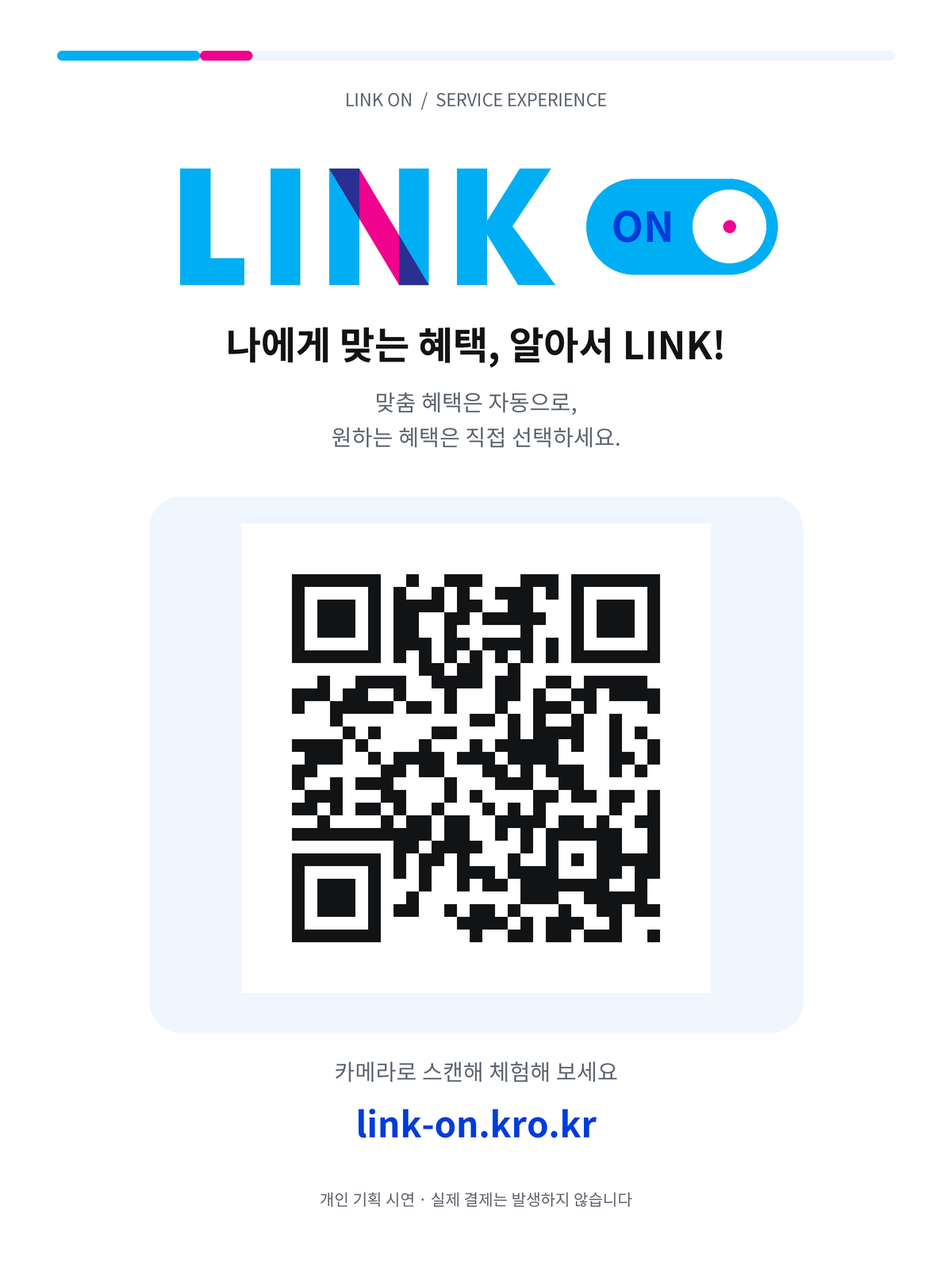
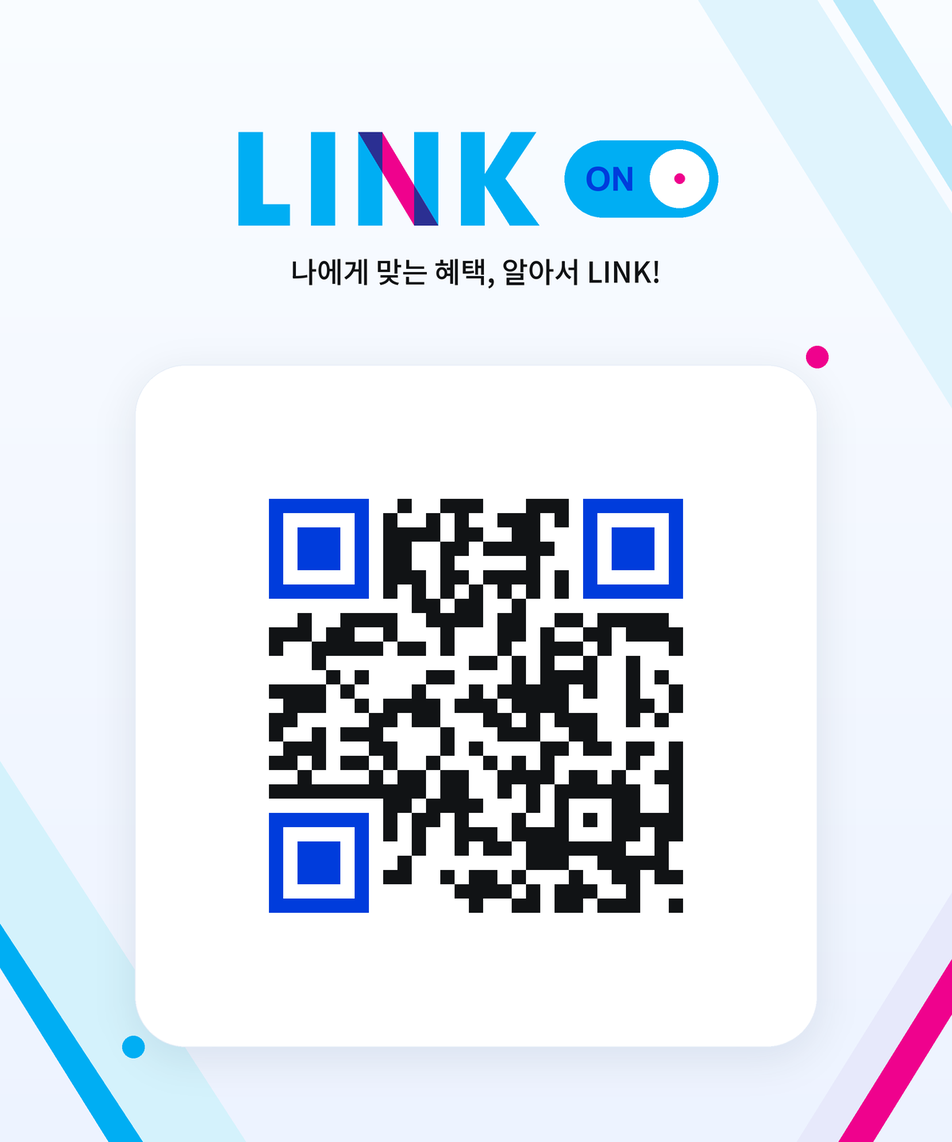
Refine LINK ON brand footer, demo settings and QR artwork

diff --git a/src/DemoTools.tsx b/src/DemoTools.tsx
@@ -1,7 +1,9 @@
 import { useState, useEffect, type Dispatch } from 'react';
 import { industries, campaigns, merchants, campaign, availableCampaigns, reducer, type Action, type Availability, type LinkState } from './model';
 
+type SettingSection = 'matching' | 'date' | 'exceptions';
 export function DemoTools({ state, dispatch, navigate, blocked = false }: { state: LinkState; dispatch: Dispatch<Action>; navigate: (route: string) => void; blocked?: boolean }) {
+  const [section, setSection] = useState<SettingSection>('matching');
   const [date, setDate] = useState(state.date);
   const [limit, setLimit] = useState(String(state.limit));
   const [pattern, setPattern] = useState(state.patterns.join(','));
@@ -14,26 +16,44 @@ export function DemoTools({ state, dispatch, navigate, blocked = false }: { stat
   const execute = (action: Action, message: string) => {
     const next = reducer(state, action); dispatch(action); setFeedback(next.notice || message); return next;
   };
-  return <details className="demo-tools" inert={blocked}><summary>체험 설정</summary>
-    <p>가상 이용 패턴과 행사 조건을 바꿔 보세요. 결제 체험과 결과 확인은 폰 화면에서도 할 수 있어요. 실제 결제는 발생하지 않습니다.</p>
-    <div className="demo-grid">
-      <section><h3>맞춤 혜택 선정</h3>
-        <label>시연 이용 패턴<select value={pattern} onChange={e => setPattern(e.target.value)}><option value="">이용 이력 없음</option>{industries.map(industry => <option key={industry} value={industry}>{industry}</option>)}<option value={industries.join(',')}>전체 업종</option>{state.patterns.length > 1 && state.patterns.length < industries.length && <option value={state.patterns.join(',')}>{state.patterns.join(' / ')}</option>}</select></label>
-        <label>시연 한도 (확정 운영 수치 아님)<input type="number" min="0" max="20" step="1" value={limit} onInput={e => setLimit(e.currentTarget.value)} onChange={e => setLimit(e.target.value)} /></label>
-        <button onClick={() => { if (limit === '' || !Number.isInteger(Number(limit)) || Number(limit) < 0 || Number(limit) > 20) { setFeedback('시연 한도는 0~20의 정수로 입력해 주세요.'); return; } execute({ type: 'CONFIGURE', limit: Number(limit), patterns: pattern ? pattern.split(',') : [] }, '시연 조건을 저장했어요.'); }}>시연 조건 저장</button>
-        <button disabled={!state.enabled} onClick={() => execute({ type: 'SELECT' }, '현재 조건으로 선정했어요. 기존 연결은 유지하고 가능한 혜택만 추가해요.')}>새 혜택 선정 실행</button>
-        <label>시연 날짜<input type="date" min={state.date} value={date} onInput={e => setDate(e.currentTarget.value)} onChange={e => setDate(e.target.value)} /></label>
-        <button onClick={() => execute({ type: 'ADVANCE_DATE', date }, '날짜를 변경했어요. 만료 처리 후 LINK ON이 켜져 있으면 새 혜택을 선정해요.')}>날짜 적용</button>
-        <small>현재 {state.date} · 11월/12월 행사를 제공합니다. 이전 날짜로 가려면 처음부터 다시 보기를 사용하세요. 한도 축소 시 기존 연결을 취소하지 않고 신규 연결을 제한합니다.</small>
+  const sections: [SettingSection, string][] = [['matching', '맞춤 혜택 조건'], ['date', '행사 시점'], ['exceptions', '예외 상황']];
+  return <details className="demo-tools" inert={blocked}>
+    <summary><span>시연 설정</span><svg width="18" height="18" viewBox="0 0 18 18" aria-hidden="true"><path d="m4.5 7 4.5 4.5L13.5 7" fill="none" stroke="currentColor" strokeWidth="1.6" strokeLinecap="round" strokeLinejoin="round" /></svg></summary>
+    <div className="settings-content">
+      <p className="settings-intro">조건을 바꾸며 LINK ON의 동작을 살펴보세요.</p>
+      <div className="settings-tabs" role="tablist" aria-label="시연 설정 항목">{sections.map(([key, label], index) => <button key={key} id={`setting-tab-${key}`} role="tab" aria-selected={section === key} aria-controls={`setting-panel-${key}`} tabIndex={section === key ? 0 : -1} onClick={() => { setSection(key); setFeedback(''); }} onKeyDown={event => {
+        const next = event.key === 'ArrowRight' ? (index + 1) % sections.length : event.key === 'ArrowLeft' ? (index + sections.length - 1) % sections.length : event.key === 'Home' ? 0 : event.key === 'End' ? sections.length - 1 : -1;
+        if (next < 0) return;
+        event.preventDefault(); setSection(sections[next][0]); setFeedback(''); document.getElementById(`setting-tab-${sections[next][0]}`)?.focus();
+      }}>{label}</button>)}</div>
+      <section className="settings-panel" id="setting-panel-matching" role="tabpanel" aria-labelledby="setting-tab-matching" hidden={section !== 'matching'}>
+        <div className="settings-fields">
+          <label>이용 패턴<select value={pattern} onChange={e => setPattern(e.target.value)}><option value="">이용 이력 없음</option>{industries.map(industry => <option key={industry} value={industry}>{industry}</option>)}<option value={industries.join(',')}>전체 업종</option>{state.patterns.length > 1 && state.patterns.length < industries.length && <option value={state.patterns.join(',')}>{state.patterns.join(' / ')}</option>}</select></label>
+          <label>자동 연결 한도<input type="number" min="0" max="20" step="1" aria-describedby="limit-help" value={limit} onChange={e => setLimit(e.target.value)} /></label>
+        </div>
+        <p id="limit-help" className="settings-help">체험용 한도예요. 한도를 줄여도 이미 연결된 혜택은 유지돼요.</p>
+        <div className="settings-actions"><button className="settings-primary" onClick={() => { if (limit === '' || !Number.isInteger(Number(limit)) || Number(limit) < 0 || Number(limit) > 20) { setFeedback('자동 연결 한도는 0~20의 정수로 입력해 주세요.'); return; } execute({ type: 'CONFIGURE', limit: Number(limit), patterns: pattern ? pattern.split(',') : [] }, '조건을 저장했어요. 다음 혜택 선정부터 반영돼요.'); }}>조건 저장하기</button>
+          <button className="settings-secondary" disabled={!state.enabled} onClick={() => execute({ type: 'SELECT' }, '현재 조건으로 혜택을 선정했어요. 기존 연결은 유지돼요.')}>새 혜택 선정하기</button></div>
+        {!state.enabled && <p className="settings-help">LINK ON을 켜면 새 혜택을 선정할 수 있어요.</p>}
       </section>
-      <section><h3>시연 결제</h3>
-        <label>결제 대상 행사<select value={id} onChange={e => { setId(e.target.value); setAmount(String((campaign(e.target.value)?.minimum || 5000) + 1500)); }}>{campaigns.map(c => <option key={c.id} value={c.id}>{merchants[c.merchant].name} · {c.start.slice(5, 7)}월</option>)}</select></label>
-        <label>결제금액 (원)<input type="number" min="1" max="100000000" step="1" value={amount} onInput={e => setAmount(e.currentTarget.value)} onChange={e => setAmount(e.target.value)} /></label>
-        <label className="demo-check"><input type="checkbox" checked={other} onChange={e => setOther(e.target.checked)} />다른 할인 적용 (시연 중복 조건)</label>
-        <button onClick={() => { const next = execute({ type: 'PAY', id, amount: Number(amount), otherDiscount: other }, '결제를 접수했어요. 전표 접수 후 적용 여부를 확인해 보세요.'); if (next.payments.length > state.payments.length) navigate('/results/pending'); }}>시연 결제 접수</button>
-        <button disabled={!state.payments.some(p => p.status === 'pending')} onClick={() => { const pending = state.payments.filter(p => p.status === 'pending'); pending.forEach(p => dispatch({ type: 'SETTLE', paymentId: p.id })); setFeedback('결제 당시 조건으로 전표 처리를 완료했어요.'); navigate(pending.at(-1)?.eligibleDiscount ? '/results/done' : '/results/failed'); }}>결제 확인 일괄 완료</button>
-        <label>선택한 행사 연결 상태<select aria-label="행사 예외 상황" value={state.availability[id] || 'available'} onChange={e => execute({ type: 'AVAILABILITY', id, value: e.target.value as Availability }, '예외 조건을 설정했어요. 이미 연결된 혜택에는 소급 적용하지 않아요.')}><option value="available">연결 가능</option><option value="soldout">예산 소진</option><option value="error">연결 오류</option></select></label>
+      <section className="settings-panel" id="setting-panel-date" role="tabpanel" aria-labelledby="setting-tab-date" hidden={section !== 'date'}>
+        <p className="settings-help">다음 달로 이동해 혜택 만료와 새 행사 연결을 확인하세요.</p>
+        <label>시연 날짜<input type="date" min={state.date} value={date} onChange={e => setDate(e.target.value)} /></label>
+        <div className="settings-actions"><button className="settings-primary" onClick={() => execute({ type: 'ADVANCE_DATE', date }, '날짜를 변경했어요. LINK ON이 켜져 있으면 새 혜택도 선정해요.')}>날짜 적용하기</button></div>
+        <p className="settings-help">현재 {state.date} · 11월과 12월 행사를 체험할 수 있어요.<br />이전 날짜로 돌아가려면 ‘다시 체험하기’를 눌러 주세요.</p>
       </section>
-    </div><p role="status" aria-live="polite">{feedback}</p>
+      <section className="settings-panel" id="setting-panel-exceptions" role="tabpanel" aria-labelledby="setting-tab-exceptions" hidden={section !== 'exceptions'}>
+        <label>대상 행사<select value={id} onChange={e => { setId(e.target.value); setAmount(String((campaign(e.target.value)?.minimum || 5000) + 1500)); setFeedback(''); }}>{campaigns.map(c => <option key={c.id} value={c.id}>{merchants[c.merchant].name} · {c.start.slice(5, 7)}월</option>)}</select></label>
+        <label>연결 상황<select value={state.availability[id] || 'available'} onChange={e => execute({ type: 'AVAILABILITY', id, value: e.target.value as Availability }, '연결 상황을 변경했어요. 이미 연결된 혜택은 유지돼요.')}><option value="available">연결 가능</option><option value="soldout">예산 소진</option><option value="error">연결 오류</option></select></label>
+        <p className="settings-help">선택한 행사의 새 연결에 바로 적용돼요.</p>
+        <div className="exception-payment"><h3>할인 조건 확인</h3><p className="settings-help">결제금액이나 중복 할인 여부에 따른 결과를 비교하세요.</p>
+          <label>결제금액 (원)<input type="number" min="1" max="100000000" step="1" value={amount} onChange={e => setAmount(e.target.value)} /></label>
+          <label className="settings-check"><input type="checkbox" checked={other} onChange={e => setOther(e.target.checked)} />다른 할인 함께 적용</label>
+          <div className="settings-actions"><button className="settings-primary" onClick={() => { const next = execute({ type: 'PAY', id, amount: Number(amount), otherDiscount: other }, '결제 체험을 접수했어요. 이용 결과에서 할인 여부를 확인하세요.'); if (next.payments.length > state.payments.length) navigate('/results/pending'); }}>이 조건으로 결제 체험</button>
+            <button className="settings-secondary" disabled={!state.payments.some(p => p.status === 'pending')} onClick={() => { const pending = state.payments.filter(p => p.status === 'pending'); pending.forEach(p => dispatch({ type: 'SETTLE', paymentId: p.id })); setFeedback('확인 중인 결제의 할인 결과를 반영했어요.'); navigate(pending.at(-1)?.eligibleDiscount ? '/results/done' : '/results/failed'); }}>확인 중인 결과 모두 반영</button></div>
+        </div>
+      </section>
+      {feedback && <p className="settings-feedback" role="status" aria-live="polite">{feedback}</p>}
+    </div>
   </details>;
 }

diff --git a/src/main.tsx b/src/main.tsx
@@ -206,17 +206,17 @@ function App() {
   } else if (path === '/experience' || path.startsWith('/experience/')) {
     title = '결제 체험'; contentClass = 'experience';
     content = <PaymentExperience key={path + state.date} state={state} dispatch={dispatch} requestedId={path.split('/')[2]} onSubmitted={() => go('/results/pending', true)} />;
-    footer = <><button className="button primary" type="submit" form="payment-experience" disabled={!availableCampaigns(state).length}>시연 결제하기</button><p className="footer-note">실제 결제나 청구는 발생하지 않아요.</p></>;
+    footer = <><button className="button primary" type="submit" form="payment-experience" disabled={!availableCampaigns(state).length}>결제 체험하기</button><p className="footer-note">실제 결제나 청구는 발생하지 않아요.</p></>;
   } else if (path.startsWith('/results')) {
     title = '이용 결과';
     const requested = path.split('/')[2]; const tab = ['done', 'pending', 'failed'].includes(requested) ? requested : 'done';
     const list = state.payments.filter(p => p.status === tab).slice().reverse();
-    content = <><h2>내가 받은 LINK 혜택</h2><div className="result-tabs" role="tablist" aria-label="혜택 적용 상태">{[['done', '적용 완료'], ['pending', '확인 중'], ['failed', '미적용']].map(([value, text]) => <button key={value} role="tab" aria-selected={tab === value} className={tab === value ? 'selected' : ''} onClick={() => go(`/results/${value}`, true)}>{text}</button>)}</div>
+    content = <><h2>LINK 이용 결과</h2><div className="result-tabs" role="tablist" aria-label="혜택 적용 상태">{[['done', '적용 완료'], ['pending', '확인 중'], ['failed', '미적용']].map(([value, text]) => <button key={value} role="tab" aria-selected={tab === value} className={tab === value ? 'selected' : ''} onClick={() => go(`/results/${value}`, true)}>{text}</button>)}</div>
       {!state.payments.length ? <><div className="status-circle"><Icon name="gift-large.svg" size={52} /></div><h2>아직 이용 내역이 없어요</h2><p className="muted">혜택을 연결한 뒤 조건에 맞게 결제하면<br />이곳에서 적용 결과를 확인할 수 있어요.</p>{canTryPayment && <Button secondary onClick={() => experience()}>결제 체험하기</Button>}</> : !list.length ? <Note>{tab === 'pending' ? '확인 중인 결제가 없어요.' : tab === 'failed' ? '미적용된 결제가 없어요.' : '아직 적용 완료된 혜택이 없어요.'} 다른 상태의 내역도 확인해 보세요.</Note> : list.map(p => {
         const c = campaign(p.campaignId)!; const pending = p.status === 'pending'; const failed = p.status === 'failed';
-        return <section className="payment-entry" key={p.id}><div className="card result-card"><div className="result-icons"><Merchant id={c.merchant} /><Icon name={pending ? 'clock.svg' : failed ? 'info.svg' : 'check-result.svg'} size={40} /></div><h3>{pending ? '결제 내역을 확인 중이에요' : failed ? '이번 결제는 적용되지 않았어요' : `${money(p.discount)} 혜택 적용`}</h3><p className="muted">{pending ? '결제 확인을 완료하면 할인 적용 결과를 볼 수 있어요.' : failed ? p.reason : `${p.mode === 'auto' ? '자동' : '직접'} LINK로 챙긴 혜택이에요.`}</p></div><Details rows={[
+        return <section className="payment-entry" key={p.id}><div className="card result-card"><div className="result-icons"><Merchant id={c.merchant} /><Icon name={pending ? 'clock.svg' : failed ? 'info.svg' : 'check-result.svg'} size={40} /></div><h3>{pending ? '결제 내역을 확인 중이에요' : failed ? '이번 결제는 적용되지 않았어요' : `${money(p.discount)} 할인 적용`}</h3><p className="muted">{pending ? '아래 버튼을 누르면 결제 확인 과정을 체험하고 할인 결과를 볼 수 있어요.' : failed ? p.reason : `${p.mode === 'auto' ? '자동' : '직접'} LINK로 챙긴 혜택이에요.`}</p></div><Details rows={[
           ['이용 가맹점', merchants[c.merchant].name], ['결제금액', money(p.amount)], ['이용일', p.date.replaceAll('-', '.')], ['연결 방식', p.mode ? p.mode === 'auto' ? '자동 LINK' : '직접 LINK' : '연결 없음'],
-        ] } />{pending && <Button onClick={() => { dispatch({ type: 'SETTLE', paymentId: p.id }); go(p.eligibleDiscount ? '/results/done' : '/results/failed', true); }}>결제 확인 완료하기</Button>}<button className="text-action left" onClick={() => openDetail(c.id)}>행사 혜택 상세 ›</button></section>;
+        ] } />{pending && <Button onClick={() => { dispatch({ type: 'SETTLE', paymentId: p.id }); go(p.eligibleDiscount ? '/results/done' : '/results/failed', true); }}>할인 결과 확인하기</Button>}<button className="text-action left" onClick={() => openDetail(c.id)}>행사 혜택 상세 ›</button></section>;
       })}<Note>시연 결제 내역입니다. 실제 결제는 발생하지 않아요.</Note></>;
     footer = <Button secondary onClick={home}>LINK 메인으로</Button>;
   } else {
@@ -231,7 +231,7 @@ function App() {
       else if (modal === 'off') { dispatch({ type: 'DISABLE' }); home(); }
       else if (modalOffer) { dispatch({ type: 'EXCLUDE', id: modalOffer.id }); go(`/excluded/${modalOffer.id}`, true); }
     }}>{modal === 'unlink' ? <>{modalName} 혜택의 연결이 해제돼요.<br />다른 혜택과 LINK ON 설정은 유지돼요.</> : modal === 'off' ? <>새 혜택의 자동 연결이 중단돼요.<br />이미 연결된 혜택은 만료일까지 유지됩니다.</> : <>{modalName} 혜택의 연결이 취소돼요.<br />이번 행사 혜택은 다시 자동 연결하지 않아요.</>}</ConfirmSheet>}
-  </div></div><p className="demo-disclosure">개인 기획 시연 · 삼성카드·모니모의 공식 서비스가 아닙니다.</p><div className="preview-tools" inert={!!modal}><span>LINK ON 서비스 체험 · {state.date}</span><button className="preview-size" aria-pressed={originalSize} onClick={() => setOriginalSize(value => !value)}>{originalSize ? '화면에 맞추기' : '원본 크기로 보기'}</button><button onClick={() => { dispatch({ type: 'RESET' }); setDemoReset(value => value + 1); setConsent(false); setDraft(initialState.interests); setIndustryFilter('전체'); home(); requestAnimationFrame(() => { scrollRef.current?.scrollTo(0, 0); window.scrollTo(0, 0); }); }}>처음부터 다시 보기</button></div><DemoTools key={demoReset} blocked={!!modal} state={state} dispatch={dispatch} navigate={route => go(route)} /></div>;
+  </div></div><section className="brand-signature" aria-label="LINK ON 소개"><LinkLogo size={190} /><p>나에게 맞는 혜택, 알아서 LINK!</p></section><div className="preview-tools" inert={!!modal}><button className="preview-size" aria-pressed={originalSize} onClick={() => setOriginalSize(value => !value)}>{originalSize ? '화면에 맞추기' : '원본 크기로 보기'}</button><button onClick={() => { dispatch({ type: 'RESET' }); setDemoReset(value => value + 1); setConsent(false); setDraft(initialState.interests); setIndustryFilter('전체'); home(); requestAnimationFrame(() => { scrollRef.current?.scrollTo(0, 0); window.scrollTo(0, 0); }); }}>다시 체험하기</button></div><DemoTools key={demoReset} blocked={!!modal} state={state} dispatch={dispatch} navigate={route => go(route)} /></div>;
 }
 
 initializeNavigation();

diff --git a/src/styles.css b/src/styles.css
@@ -8,21 +8,8 @@
 .benefit-body{grid-column:span 2;display:grid;grid-template-columns:44px minmax(0,1fr);gap:12px;align-items:center;min-width:0;min-height:82px;text-align:left}
 .benefit-action{flex-shrink:0}
 .preview{overflow-anchor:none}
-.demo-tools{width:min(680px,calc(100% - 32px));padding:20px;margin:12px 0 24px;background:#fff;border:1px solid var(--line);border-radius:20px;font-size:14px;line-height:22px}
-.demo-tools summary{cursor:pointer;font-size:16px;font-weight:700;padding:4px 0}
-.demo-tools p{font-size:14px;line-height:22px;margin-top:12px;color:var(--muted)}
-.demo-grid{display:grid;grid-template-columns:1fr 1fr;gap:24px;margin-top:20px}
-.demo-grid section{display:flex;flex-direction:column;gap:12px;min-width:0}
-.demo-grid h3{font-size:18px}.demo-grid label{display:flex;flex-direction:column;gap:6px}
-.demo-grid input,.demo-grid select{font:inherit;width:100%;min-width:0;min-height:44px;border:1px solid #aab4c4;border-radius:10px;padding:8px;background:white;color:var(--ink)}
-.demo-grid select:focus-visible{outline:3px solid var(--brand-blue);outline-offset:3px}
-.demo-grid button{border-radius:12px;background:var(--tint);color:var(--brand-blue);padding:10px;min-height:44px;font-weight:700}
-.demo-grid button:disabled{color:var(--muted);background:var(--subtle)}
-.demo-grid .demo-check{flex-direction:row;align-items:center}.demo-check input{width:20px;min-height:20px;height:20px;flex-shrink:0}
-.demo-grid small{font-size:13px;color:var(--muted);line-height:21px}
 .payment-entry{display:flex;flex-direction:column;gap:12px;padding-bottom:20px;border-bottom:1px solid var(--line)}
 .inline-notice{font-size:14px;line-height:22px;padding:12px 14px;border-radius:12px;background:var(--tint);color:var(--muted);word-break:keep-all;overflow-wrap:anywhere}
-@media(max-width:560px){.demo-grid{grid-template-columns:1fr}.demo-tools{padding:16px}}
 @media(max-width:400px){.benefit-body{grid-template-columns:40px minmax(0,1fr);gap:9px}}
 
 /* Expanded catalog: preserve compact rows and keep long category labels readable. */
@@ -37,7 +24,6 @@
 .catalog-filter{display:flex;align-items:center;justify-content:space-between;gap:12px;font-size:14px;color:var(--muted)}
 .catalog-filter select{min-width:0;max-width:75%;min-height:44px;padding:8px 30px 8px 12px;border:1px solid #aab4c4;border-radius:12px;background:#fff;color:var(--ink);font:inherit}
 .catalog-filter select:focus-visible{outline:3px solid var(--brand-blue);outline-offset:3px}
-.demo-disclosure{max-width:440px;padding:0 16px;color:var(--muted);font-size:12px;line-height:20px;text-align:center}
 .preview-tools{font-size:13px;flex-wrap:wrap;justify-content:center;gap:8px 20px;padding:0 16px}
 .preview-tools button{font-size:13px;min-height:32px}
 .help-button,.benefit-action{min-height:44px}
@@ -45,7 +31,6 @@
 .section-heading{height:auto;min-height:44px}
 .service-info{box-shadow:none;background:var(--subtle)}
 .navigation h1:focus{outline:none}
-@media(max-width:560px){.demo-disclosure{padding-top:12px}.preview-tools{padding-top:8px}}
 
 /* Entry and payment experience use the same palette and phone geometry. */
 .sr-only{position:absolute;width:1px;height:1px;padding:0;margin:-1px;overflow:hidden;clip:rect(0,0,0,0);white-space:nowrap;border:0}
@@ -80,3 +65,40 @@
 .summary{padding:4px}.summary>div{padding:8px;gap:2px}.summary span{font-size:14px;line-height:20px}.summary strong{font-size:22px;line-height:28px}
 .content.main-on .link-header{padding-bottom:0}.content.main-on .link-header>img{width:96px;height:auto}
 .content.experience{gap:16px}.content.experience>h2{font-size:25px;line-height:35px}.content.experience>p{font-size:15px;line-height:24px}
+
+/* A quiet brand signature separates the service from optional presentation tools. */
+.brand-signature{display:flex;flex-direction:column;align-items:center;gap:16px;margin:28px 20px 2px;text-align:center}
+.brand-signature p{font-size:17px;line-height:26px;font-weight:500;letter-spacing:-.3px;color:var(--ink)}
+.preview-tools{gap:8px 24px;padding:0 20px}
+.preview-tools button{min-height:44px;font-size:13px;color:var(--muted);text-decoration:none}
+.preview-tools button:hover{color:var(--brand-blue)}
+.demo-tools{width:min(620px,calc(100% - 40px));margin:0 0 32px;color:var(--ink)}
+.demo-tools>summary{list-style:none;display:flex;align-items:center;justify-content:center;gap:8px;min-height:44px;cursor:pointer;font-size:13px;color:var(--muted);border-radius:12px}
+.demo-tools>summary::-webkit-details-marker{display:none}
+.demo-tools>summary:focus-visible{outline:3px solid var(--brand-blue);outline-offset:3px}
+.demo-tools[open]{background:#fff;border:1px solid var(--line);border-radius:24px}
+.demo-tools[open]>summary{padding:20px 24px;justify-content:space-between;color:var(--ink);font-size:16px;font-weight:600}
+.demo-tools[open]>summary svg{transform:rotate(180deg)}
+.settings-content{padding:0 24px 24px}
+.settings-intro{font-size:14px;line-height:23px;color:var(--muted);margin-bottom:20px}
+.settings-tabs{display:flex;gap:4px;padding:4px;background:var(--subtle);border-radius:14px;margin-bottom:24px}
+.settings-tabs button{flex:1;min-width:0;min-height:44px;border-radius:10px;font-size:14px;line-height:21px;color:var(--muted);padding:8px 4px}
+.settings-tabs button[aria-selected=true]{background:white;color:var(--brand-blue);box-shadow:0 2px 6px #0000000a;font-weight:700}
+.settings-panel{display:flex;flex-direction:column;gap:16px}
+.settings-panel[hidden]{display:none}
+.settings-fields{display:grid;grid-template-columns:1fr 1fr;gap:16px}
+.settings-panel label{display:flex;flex-direction:column;gap:8px;font-size:14px;line-height:22px;font-weight:500}
+.settings-panel input,.settings-panel select{width:100%;min-width:0;min-height:48px;border:1px solid #aab4c4;border-radius:12px;background:#fff;color:var(--ink);padding:10px 12px;font:inherit;font-size:16px;font-weight:400}
+.settings-panel select:focus-visible{outline:3px solid var(--brand-blue);outline-offset:3px}
+.settings-help{font-size:13px;line-height:22px;color:var(--muted)}
+.settings-actions{display:flex;gap:12px;flex-wrap:wrap;padding-top:4px}
+.settings-actions button{flex:1;min-width:160px;min-height:48px;padding:12px 16px;border-radius:14px;font-size:14px;line-height:22px;font-weight:600}
+.settings-primary{background:var(--brand-blue);color:#fff}
+.settings-secondary{background:var(--tint);color:var(--brand-blue)}
+.settings-actions button:disabled{background:var(--subtle);color:var(--muted)}
+.exception-payment{border-top:1px solid var(--line);padding-top:24px;margin-top:8px;display:flex;flex-direction:column;gap:16px}
+.exception-payment h3{font-size:16px;line-height:24px}
+.settings-panel .settings-check{flex-direction:row;align-items:center;gap:10px;min-height:44px;font-weight:400}
+.settings-check input{width:20px;height:20px;min-height:20px;flex-shrink:0;accent-color:var(--brand-blue)}
+.settings-feedback{padding:12px 14px;margin-top:20px;background:var(--tint);border-radius:12px;font-size:14px;line-height:23px;color:var(--brand-blue)}
+@media(max-width:560px){.brand-signature{margin-top:40px;margin-bottom:12px}.brand-signature p{font-size:16px}.demo-tools[open]>summary{padding:18px}.settings-content{padding:0 18px 20px}.settings-fields{grid-template-columns:1fr}.settings-tabs button{font-size:13px}.demo-tools{margin-top:0;margin-bottom:28px}.preview-tools{padding-top:0}}

diff --git a/tests/payment-experience.spec.ts b/tests/payment-experience.spec.ts
@@ -11,11 +11,11 @@ test('QR 첫 방문에서 화면 안의 안내만으로 자동 연결과 할인 
   await page.getByRole('button', { name: '저장하고 혜택 확인하기' }).click();
   await page.getByRole('button', { name: '결제 체험하기', exact: true }).click();
   await expect(page.getByLabel('결제할 가맹점')).toHaveValue('starbucks-202611');
-  await page.getByRole('button', { name: '시연 결제하기', exact: true }).click();
+  await page.getByRole('button', { name: '결제 체험하기', exact: true }).click();
   await expect(page.getByRole('tab', { name: '확인 중', exact: true })).toHaveAttribute('aria-selected', 'true');
   await page.reload();
-  await page.getByRole('button', { name: '결제 확인 완료하기', exact: true }).click();
-  await expect(page.getByRole('heading', { name: '1,000원 혜택 적용' })).toBeVisible();
+  await page.getByRole('button', { name: '할인 결과 확인하기', exact: true }).click();
+  await expect(page.getByRole('heading', { name: '1,000원 할인 적용' })).toBeVisible();
   await page.getByRole('button', { name: 'LINK 메인으로', exact: true }).click();
   await expect(page.locator('.summary')).toContainText('1,000원');
   await expect(page.locator('.demo-tools')).not.toHaveAttribute('open');
@@ -27,14 +27,14 @@ test('결제 체험은 최소 금액 미충족을 안내하고 같은 혜택을 
   await page.getByRole('button', { name: '결제 체험하기', exact: true }).click();
   await expect(page.getByLabel('결제할 가맹점')).toHaveValue('gs25-202611');
   await page.getByLabel('결제금액 (원)', { exact: true }).first().fill('1000');
-  await page.getByRole('button', { name: '시연 결제하기', exact: true }).click();
-  await page.getByRole('button', { name: '결제 확인 완료하기', exact: true }).click();
+  await page.getByRole('button', { name: '결제 체험하기', exact: true }).click();
+  await page.getByRole('button', { name: '할인 결과 확인하기', exact: true }).click();
   await expect(page.getByText('최소 결제금액을 충족하지 않았어요.')).toBeVisible();
   await page.getByRole('button', { name: '행사 혜택 상세 ›' }).click();
   await page.getByRole('button', { name: '이 혜택으로 결제 체험' }).click();
-  await page.getByRole('button', { name: '시연 결제하기', exact: true }).click();
-  await page.getByRole('button', { name: '결제 확인 완료하기', exact: true }).click();
-  await expect(page.getByRole('heading', { name: '1,000원 혜택 적용' })).toBeVisible();
+  await page.getByRole('button', { name: '결제 체험하기', exact: true }).click();
+  await page.getByRole('button', { name: '할인 결과 확인하기', exact: true }).click();
+  await expect(page.getByRole('heading', { name: '1,000원 할인 적용' })).toBeVisible();
 });
 
 test('PC 확대 전후 휴대폰 비율과 첫 화면 시작 버튼을 유지한다', async ({ page }) => {

diff --git a/src/PaymentExperience.tsx b/src/PaymentExperience.tsx
@@ -14,7 +14,6 @@ export function PaymentExperience({ state, dispatch, requestedId, onSubmitted }:
   const linked = selected && connection(state, selected.id);
 
   return <>
-    <span className="pill">가상 결제 체험</span>
     <h2>연결한 혜택을<br />사용해 볼까요?</h2>
     <p className="muted">가맹점과 금액을 고르면 할인 적용 과정을 확인할 수 있어요.</p>
     <form id="payment-experience" className="payment-form" onSubmit={event => {

diff --git a/scripts/create-qr.py b/scripts/create-qr.py
@@ -1,0 +1,67 @@
+"""Build the branded QR PNG. Install Pillow and qrcode before running."""
+from pathlib import Path
+import sys, re, xml.etree.ElementTree as ET
+sys.path.insert(0,str(Path(__file__).resolve().parents[1]/'.tools/qr'))
+import qrcode
+from PIL import Image, ImageDraw, ImageFont, ImageFilter
+
+ROOT=Path(__file__).resolve().parents[1]
+S=2; W,H=1200,1440
+img=Image.new('RGB',(W*S,H*S),'#f3f8ff')
+d=ImageDraw.Draw(img)
+# Soft daylight field; all decorative shapes remain outside the QR quiet zone.
+for y in range(H*S):
+    t=y/(H*S)
+    d.line((0,y,W*S,y),fill=(round(249-12*t),round(252-9*t),255))
+def polygon(points,fill): d.polygon([(int(x*S),int(y*S)) for x,y in points],fill=fill)
+polygon([(880,0),(1030,0),(1200,270),(1200,515)],'#e0f4fd')
+polygon([(1050,0),(1100,0),(1200,160),(1200,242)],'#bceafa')
+polygon([(0,960),(0,1180),(164,1440),(310,1440)],'#d4f2fc')
+polygon([(0,1165),(0,1220),(137,1440),(180,1440)],'#00aef3')
+polygon([(1056,1440),(1100,1440),(1200,1278),(1200,1208)],'#ef028d')
+polygon([(1004,1440),(1056,1440),(1200,1208),(1200,1125)],'#e7e9fb')
+# Original LINK paths and ON toggle geometry, with no reshaping.
+ox,oy,scale=295,155,610/128
+root=ET.parse(ROOT/'public/assets/logo-128-link.svg').getroot()
+for path in root.findall('.//{http://www.w3.org/2000/svg}path'):
+    tokens=re.findall(r'[MHVLZ]|-?\d+(?:\.\d+)?',path.attrib['d']); points=[]; i=0; x=y=0; command=''
+    while i<len(tokens):
+        if tokens[i].isalpha(): command=tokens[i];i+=1
+        if command=='Z': break
+        if command in ('M','L'): x=float(tokens[i]);y=float(tokens[i+1]);i+=2
+        elif command=='H': x=float(tokens[i]);i+=1
+        elif command=='V': y=float(tokens[i]);i+=1
+        points.append(((ox+x*scale)*S,(oy+(y+1.56)*scale)*S))
+    d.polygon(points,fill=path.attrib['fill'])
+def logo_box(x,y,w,h):return ((ox+x*scale)*S,(oy+y*scale)*S,(ox+(x+w)*scale)*S,(oy+(y+h)*scale)*S)
+d.rounded_rectangle(logo_box(87.37,4.61,40.635,20.317),radius=10.1585*scale*S,fill='#00aef3')
+d.ellipse(logo_box(110.05,6.98,15.577,15.577),fill='white')
+d.ellipse(logo_box(116.49,13.41,2.709,2.709),fill='#ef028d')
+on_font=Path('C:/Windows/Fonts/arialbd.ttf')
+if not on_font.exists(): on_font=ROOT/'public/fonts/NotoSansKR-VF.ttf'
+font=ImageFont.truetype(str(on_font),round(8.8*scale*S))
+d.text(((ox+99.42*scale)*S,(oy+14.77*scale)*S),'ON',font=font,fill='#003cdc',anchor='mm')
+font=ImageFont.truetype(str(ROOT/'public/fonts/NotoSansKR-VF.ttf'),36*S)
+font.set_variation_by_axes([500])
+d.text((600*S,342*S),'나에게 맞는 혜택, 알아서 LINK!',font=font,fill='#111315',anchor='mm')
+# Elevated white scan area with a restrained cyan/magenta link motif outside it.
+shadow=Image.new('RGBA',img.size);sd=ImageDraw.Draw(shadow)
+sd.rounded_rectangle((170*S,474*S,1030*S,1334*S),radius=64*S,fill=(31,75,131,25))
+shadow=shadow.filter(ImageFilter.GaussianBlur(24*S));img=Image.alpha_composite(img.convert('RGBA'),shadow);d=ImageDraw.Draw(img)
+d.rounded_rectangle((170*S,460*S,1030*S,1320*S),radius=64*S,fill='white',outline='#e6edf7',width=S)
+d.ellipse((1016*S,436*S,1044*S,464*S),fill='#ef028d')
+d.ellipse((154*S,1306*S,182*S,1334*S),fill='#00aef3')
+qr=qrcode.QRCode(error_correction=qrcode.constants.ERROR_CORRECT_H,border=4)
+qr.add_data('https://link-on.kro.kr/');qr.make(fit=True)
+m=qr.get_matrix();n=len(m);unit=18;startx=(W-n*unit)/2;starty=890-n*unit/2
+for row,line in enumerate(m):
+ for col,on in enumerate(line):
+  if not on:continue
+  a,b=col-4,row-4;side=n-8
+  finder=(a<7 and b<7) or (a>=side-7 and b<7) or (a<7 and b>=side-7)
+  color='#003cdc' if finder else '#111315'
+  x,y=(startx+col*unit)*S,(starty+row*unit)*S
+  d.rectangle((x,y,x+unit*S-1,y+unit*S-1),fill=color)
+img=img.convert('RGB').resize((W,H),Image.Resampling.LANCZOS)
+output=ROOT/'docs/assets/LINK-ON-QR.png';img.save(output,dpi=(300,300),optimize=True)
+print(f'{output} | {W}x{H} | modules: {n-8} | quiet zone: 4 | ECC H')

diff --git a/README.md b/README.md
@@ -26,9 +26,9 @@
 2. 자동 연결된 혜택의 이유와 이용 조건을 확인합니다.
 3. **직접 고르는 혜택**에서 다른 혜택을 연결하거나 해제합니다.
 4. **결제 체험하기**에서 가맹점과 금액을 고르고 시연 결제를 진행합니다.
-5. 이용 결과에서 **결제 확인 완료하기**를 눌러 할인 적용 여부를 확인합니다.
+5. 이용 결과에서 **할인 결과 확인하기**를 눌러 할인 적용 여부를 확인합니다.
 
-실제 결제는 발생하지 않습니다. 폰 아래 **체험 설정**에서는 이용 패턴·날짜·중복 할인 조건도 바꿀 수 있습니다. PC에서 글자가 작으면 **원본 크기로 보기**를 사용하세요.
+실제 결제는 발생하지 않습니다. 폰 아래 **시연 설정**에서는 이용 패턴·날짜·중복 할인 조건도 바꿀 수 있습니다. PC에서 글자가 작으면 **원본 크기로 보기**를 사용하세요.
 
 | 기능 | 동작 |
 | --- | --- |

diff --git a/docs/VALIDATION_RELEASE.md b/docs/VALIDATION_RELEASE.md
@@ -43,3 +43,10 @@
 - QR 주소는 변경하지 않았다. 실제 휴대폰 카메라 촬영과 iOS Safari 실기기 검증은 수행하지 않았다.
 
 Preview와 운영 배포는 해당 변경 PR의 배포 상태와 운영 주소에서 확인한다.
+
+## 하단·시연 설정·QR 검증 — 2026-10-30
+
+- 빌드와 단위 검사 22개, 기존 브라우저 검사 18개를 통과했습니다.
+- 설정 탭의 방향키·Home·End 이동, 입력값 유지, 모바일 가로 넘침을 추가 검사했습니다. 테스트의 선택자 불일치를 수정한 후 통과했습니다.
+- QR PNG는 1200×1440, 300dpi, 오류 복원 H이며 코드 주위에 4모듈 이상의 흰 여백을 유지합니다. 원본과 너비 600px·300px 축소본, 흑백본에서 `https://link-on.kro.kr/`로 해독됐습니다.
+- 실제 휴대폰 카메라와 인쇄물 검사는 수행하지 않았습니다. 운영 배포와 화면 확인은 해당 PR의 배포 상태를 기준으로 기록합니다.

diff --git a/docs/DEVELOPMENT.md b/docs/DEVELOPMENT.md
@@ -108,3 +108,7 @@ git status
 결제 행사와 금액을 고른 뒤 **시연 결제 접수 → 확인 중 결제 전표 접수**를 진행하면 결과가 표시됩니다. **처음부터 다시 보기**는 현재 브라우저의 시연 상태만 초기화하며 Git 이력과는 관계없습니다.
 
 정책은 [구현 기준](IMPLEMENTATION_GUIDE.md), 작업 범위는 [작업 규칙](../AGENTS.md), 검사 결과는 [배포 점검 기록](VALIDATION_RELEASE.md)을 참고하세요.
+
+## QR PNG 다시 만들기
+
+로고와 주소를 유지한 QR은 `scripts/create-qr.py`로 생성합니다. Python에 `Pillow`와 `qrcode`를 설치한 뒤 `python scripts/create-qr.py`를 실행하면 `docs/assets/LINK-ON-QR.png`가 갱신됩니다. README는 이 파일을 표시합니다. 인쇄하거나 배포하기 전 축소본에서도 주소가 인식되는지 확인하세요.
